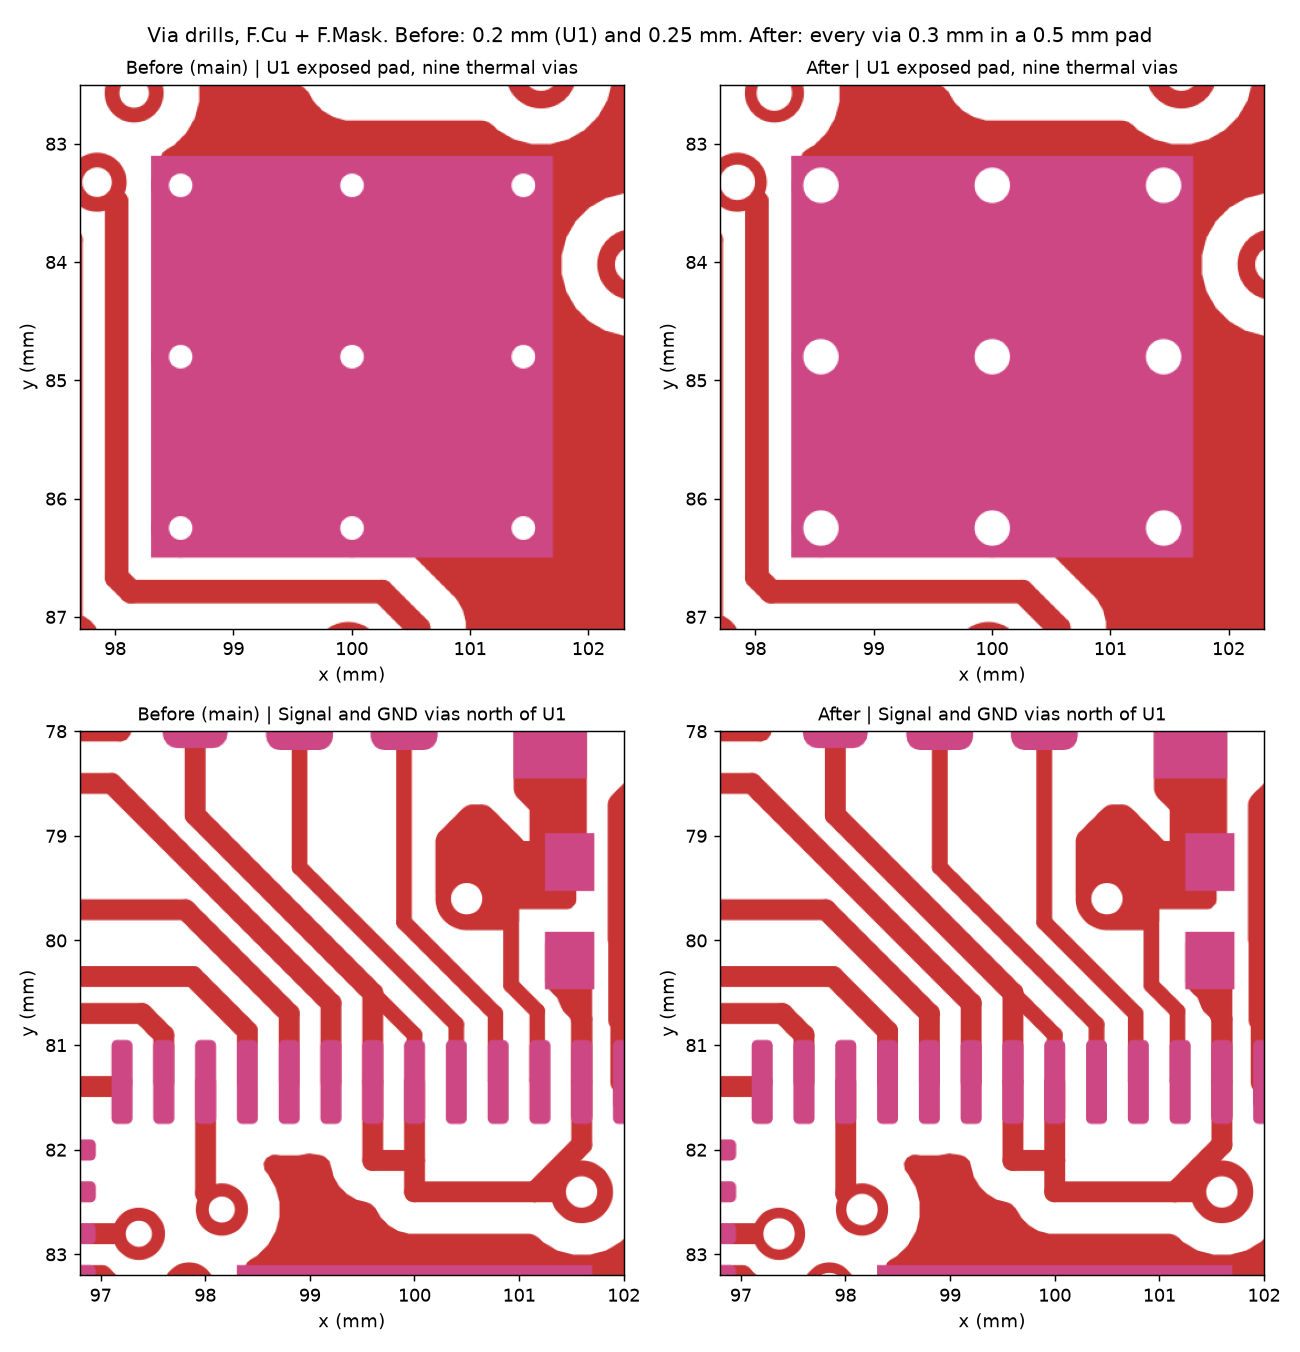
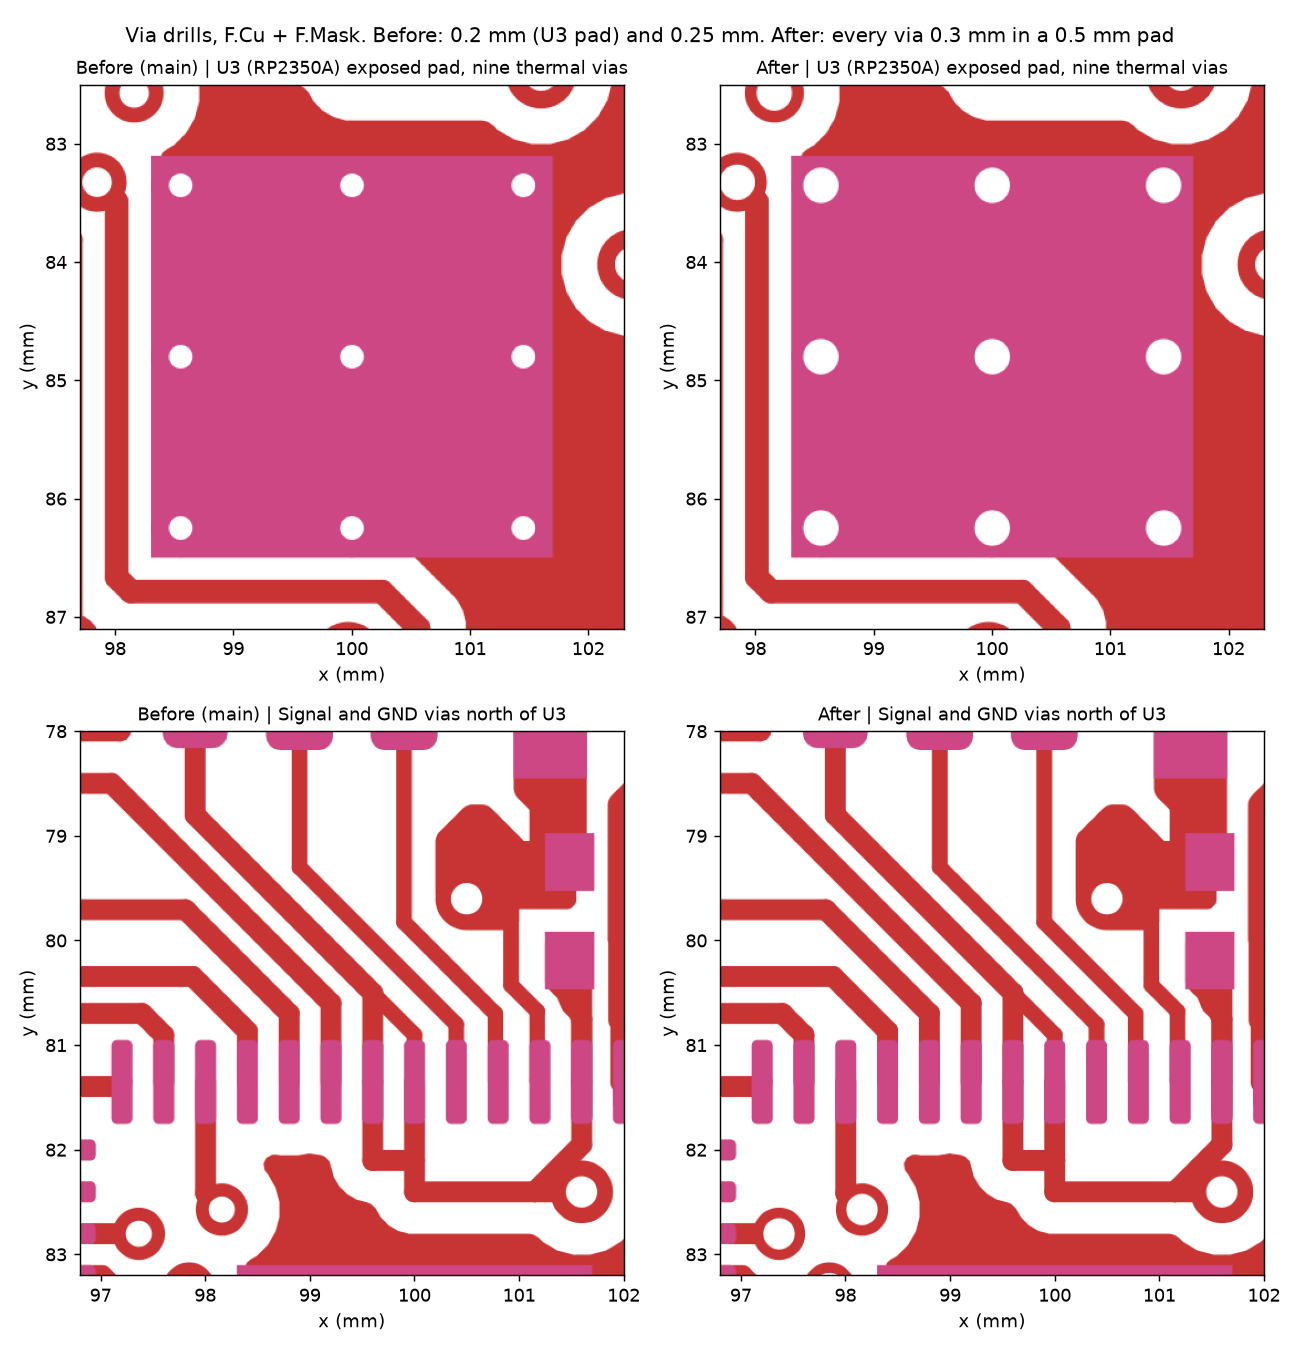
fix: keep generators, 3D model and docs in line with 0.3 mm vias
Review of the 0.3 mm via change:

- pcb-generator (fanout, stitch, preroute, gen_pcb) and gen_sch still
  produced 0.25 mm vias and KiCad's stock QFN-60 footprint; a rerun of
  the pipeline would have brought them back
- the local QFN-60 footprint now uses the project's STEP model, as the
  board already does, so updating the footprint from the library keeps
  the 3D model
- the RP2350A is U3, not U1 (U1 is the USBLC6 ESD): fixed in
  design-rev-a.md and the before/after image; the two earlier commit
  messages of this branch say U1 by mistake

Changed region(s): [[0.0615, 0.0, 0.9231, 0.0621]]

diff --git a/tools/pcb-generator/preroute.py b/tools/pcb-generator/preroute.py
@@ -93,10 +93,10 @@ rroute("+1V1", [(-0.8, 0), (-0.825, -0.013), (-0.825, -0.675), (-1.075, -0.925),
 rroute("+3V3", [(-0.4, 0), (-0.4, -0.6), (-0.515, -0.85), (-0.515, -1.16)], 0.2)   # VREG_VIN -> input cap
 rroute("GND", [(0.4, 0), (0.4, -0.5), (0.515, -0.7), (0.515, -1.16)], 0.2)         # VREG_PGND -> both caps' ground
 rroute("GND", [(0.515, -1.16), (0.515, -2.1)], 0.3)
-rroute("GND", [(0.515, -1.45), (1.1, -1.45)], 0.3); via("GND", 1.1, -1.45, 0.25)
-rroute("GND", [(0.515, -2.05), (1.1, -2.05)], 0.3); via("GND", 1.1, -2.05, 0.25)
+rroute("GND", [(0.515, -1.45), (1.1, -1.45)], 0.3); via("GND", 1.1, -1.45, 0.3)
+rroute("GND", [(0.515, -2.05), (1.1, -2.05)], 0.3); via("GND", 1.1, -2.05, 0.3)
 rroute(AVDD, [(0.8, 0), (0.8, -0.15), (1.64, -0.99), (1.64, -1.52), (2.2, -2.08), (3.14, -2.08)], 0.15)
-rroute("GND", [(2.2, -1.12), (2.2, -0.75), (1.85, -0.4)], 0.4); via("GND", 1.85, -0.4, 0.25)
+rroute("GND", [(2.2, -1.12), (2.2, -0.75), (1.85, -0.4)], 0.4); via("GND", 1.85, -0.4, 0.3)
 rroute("+3V3", [(4.16, -2.08), (4.8, -2.08)], 0.3); via("+3V3", 4.8, -2.08)               # R5 lies beside C5: J1's shell pin is above it
 # +3V3 under the package, between the pin row and the exposed pad, joining VREG_VIN to USB_OTP_VDD
 # and QSPI_IOVDD (53, 54) as the reference's pour does, with one via to the In2 plane
@@ -105,7 +105,7 @@ rroute("+3V3", [(-2.0, 0), (-2.0, 0.75)], 0.2); rroute("+3V3", [(-2.4, 0), (-2.4
 rroute("+3V3", [(-2.0, 0.75), (-2.0, 1.05), (-0.4, 1.05)], 0.2)
 rroute("+3V3", [(-2.0, 0), (-2.0, -0.45), (-2.4, -0.85)], 0.15)
 rroute("+3V3", [(-2.4, 0), (-2.4, -0.85), (-4.1, -2.55), (-4.1, -3.47)], 0.2)     # to C16
-rroute("GND", [(-4.1, -4.43), (-4.1, -5.9)], 0.3); via("GND", -4.1, -5.9, 0.25)          # clear of J1's peg
+rroute("GND", [(-4.1, -4.43), (-4.1, -5.9)], 0.3); via("GND", -4.1, -5.9, 0.3)          # clear of J1's peg
 # USB from the series resistors into pins 51/52, threading between the regulator and the QSPI fan
 # (0.15 mm as in the reference: the pair squeezes past VREG_FB here for 3 mm)
 rroute(DM, [(-1.2, 0), (-1.225, -0.013), (-1.225, -0.651), (-2.1, -1.526), (-2.1, -3.44)], 0.15)

diff --git a/tools/pcb-generator/gen_pcb.py b/tools/pcb-generator/gen_pcb.py
@@ -118,13 +118,13 @@ ds.SetGridOrigin(pcbnew.VECTOR2I(mm((X0 + X1) / 2), mm((Y0 + Y1) / 2)))   # boar
 ds.m_MinClearance = mm(0.1)
 ds.m_TrackMinWidth = mm(0.1)
 ds.m_ViasMinSize = mm(0.4)
-ds.m_MinThroughDrill = mm(0.2)
+ds.m_MinThroughDrill = mm(0.3)
 ds.m_HoleClearance = mm(0.2)
 ds.m_HoleToHoleMin = mm(0.25)
 ds.m_CopperEdgeClearance = mm(0.3)   # the reverse-mount LED cut-out sits close to its pads
 ns = ds.m_NetSettings
 dflt = ns.GetDefaultNetclass()
-dflt.SetTrackWidth(mm(0.2)); dflt.SetClearance(mm(0.15)); dflt.SetViaDiameter(mm(0.5)); dflt.SetViaDrill(mm(0.25))
+dflt.SetTrackWidth(mm(0.2)); dflt.SetClearance(mm(0.15)); dflt.SetViaDiameter(mm(0.5)); dflt.SetViaDrill(mm(0.3))
 # GND and +3V3 are planes (In1, In2) reached by fanout vias; the autorouter ignores the "Plane" class.
 for cname, width, pattern in [("Plane", 0.3, ["GND", "+3V3"]),
                               ("Power", 0.4, ["+5V", "+1V1", "VBUS", "/VREG_LX"]),

diff --git a/tools/schematic-generator/gen_sch.py b/tools/schematic-generator/gen_sch.py
@@ -219,7 +219,7 @@ MCU_CONN = {"1": "+3V3", "11": "+3V3", "20": "+3V3", "30": "+3V3", "38": "+3V3",
             "60": "QSPI_SS", "56": "QSPI_SCLK", "57": "QSPI_SD0", "59": "QSPI_SD1", "58": "QSPI_SD2", "55": "QSPI_SD3",
             "2": "KEY_MUTE", "3": "KEY_DEAFEN", "4": "KEY_DISCONNECT", "8": "LED_DIN_3V3"}
 for p_ in pins("MCU_RaspberryPi:RP2350A"): MCU_CONN.setdefault(p_[0], None)
-U3 = part("U3", "MCU_RaspberryPi:RP2350A", "RP2350A", "Package_DFN_QFN:QFN-60-1EP_7x7mm_P0.4mm_EP3.4x3.4mm_ThermalVias",
+U3 = part("U3", "MCU_RaspberryPi:RP2350A", "RP2350A", "DS2000:QFN-60-1EP_7x7mm_P0.4mm_EP3.4x3.4mm_ThermalVias_Drill0.3mm",
           (182.88, 195.58), MCU_CONN, fields={"MPN": "RP2350A", "Manufacturer": "Raspberry Pi"},
           props={"Reference": (201.93, 243.84), "Value": (201.93, 246.38)})
 for n in ["53", "44", "54", "1", "49"]:

diff --git a/tools/pcb-generator/fanout.py b/tools/pcb-generator/fanout.py
@@ -18,7 +18,7 @@ b = pcbnew.LoadBoard(PCB)
 mm, tomm = pcbnew.FromMM, pcbnew.ToMM
 PLANES = {"GND", "+3V3"}
 MCU = "U3"
-VIA_D, VIA_DRILL = 0.5, 0.25
+VIA_D, VIA_DRILL = 0.5, 0.3
 CLEAR, HOLE_CLEAR, HOLE_TO_HOLE, EDGE_CLEAR = 0.15, 0.2, 0.25, 0.35
 RAD = 3.0
 

diff --git a/tools/pcb-generator/stitch.py b/tools/pcb-generator/stitch.py
@@ -12,7 +12,7 @@ import pcbnew
 
 PCB = sys.argv[1]
 PITCH = float(sys.argv[2]) if len(sys.argv) > 2 else 3.5
-VIA_D, VIA_DRILL = 0.5, 0.25
+VIA_D, VIA_DRILL = 0.5, 0.3
 CLEAR, EDGE = 0.3, 1.2
 b = pcbnew.LoadBoard(PCB)
 mm, tomm = pcbnew.FromMM, pcbnew.ToMM

diff --git a/docs/design-rev-a.md b/docs/design-rev-a.md
@@ -314,7 +314,7 @@ escapes. F.Cu and B.Cu have GND pours (solid joins on B.Cu). Minimums set for
 JLC: 0.1 mm track and clearance, 0.3 mm drill, 0.3 mm copper to edge. The drill minimum is 0.3 mm,
 not JLC's 0.2 mm: any smaller via (0.25 mm included) moves the order into a dearer class, which adds
 a via surcharge and forces a 4-wire Kelvin test and TG155 (about $37 more on five boards). Every via
-is 0.5 mm with a 0.3 mm drill, and U1 uses
+is 0.5 mm with a 0.3 mm drill, and the RP2350A (U3) uses
 `DS2000:QFN-60-1EP_7x7mm_P0.4mm_EP3.4x3.4mm_ThermalVias_Drill0.3mm`, KiCad's thermal-via footprint
 with its nine 0.5 mm vias drilled at 0.3 mm. Order with *Min via hole size* 0.3mm/(0.4/0.45mm). `DS2000.kicad_dru` lets the LED
 courtyards sit inside the switch courtyards. Net classes: *Plane* (GND, +3V3) reached by vias, *Power* (+5V,
